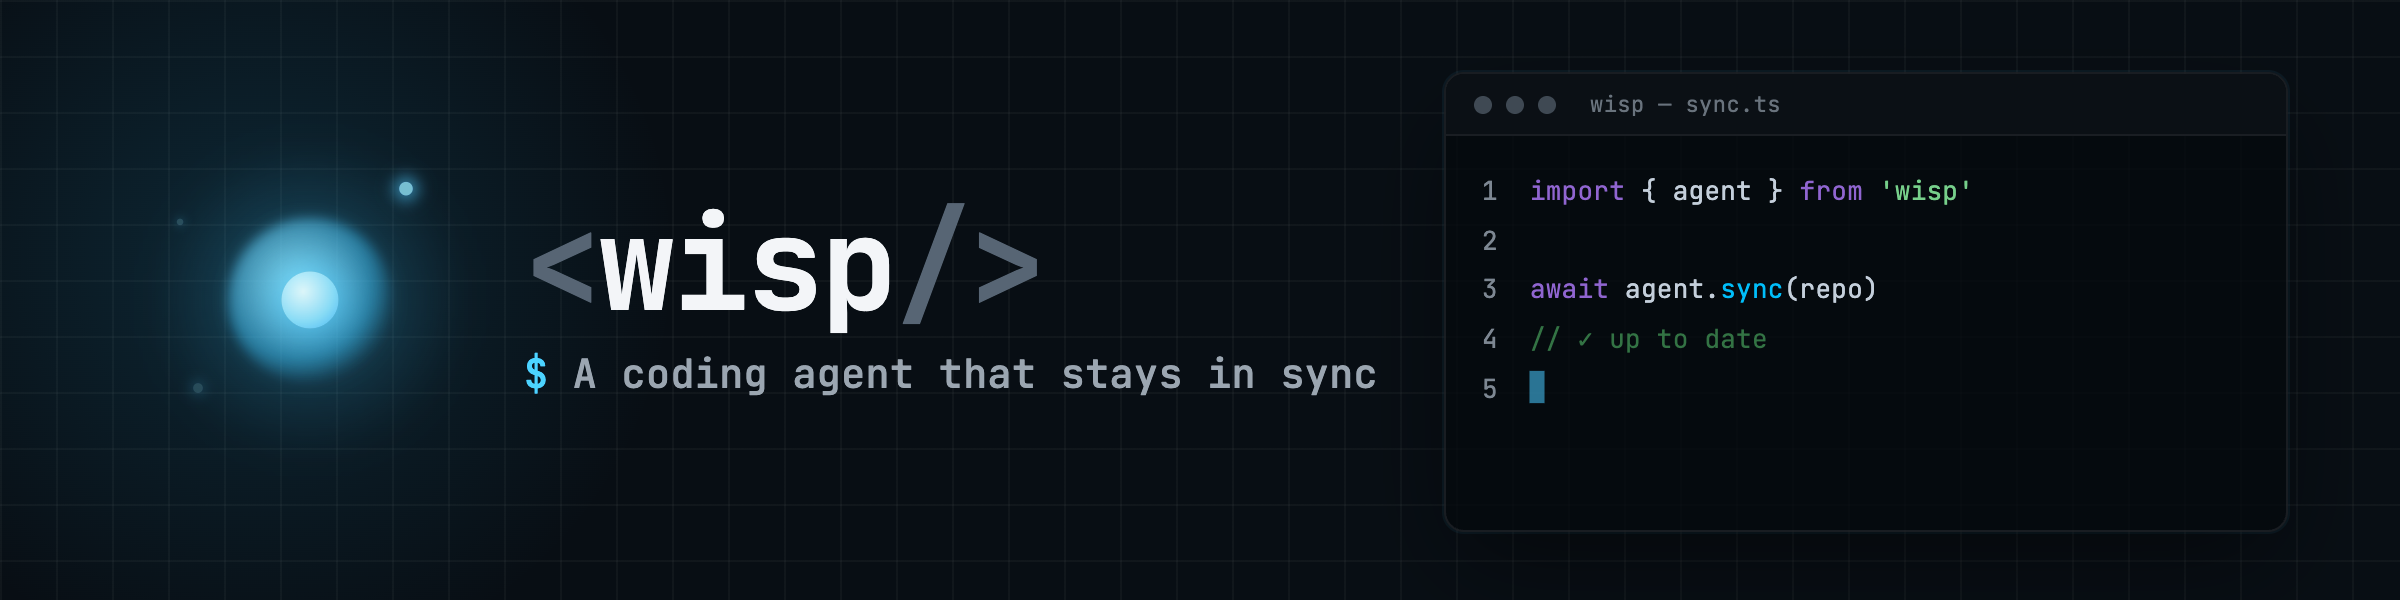
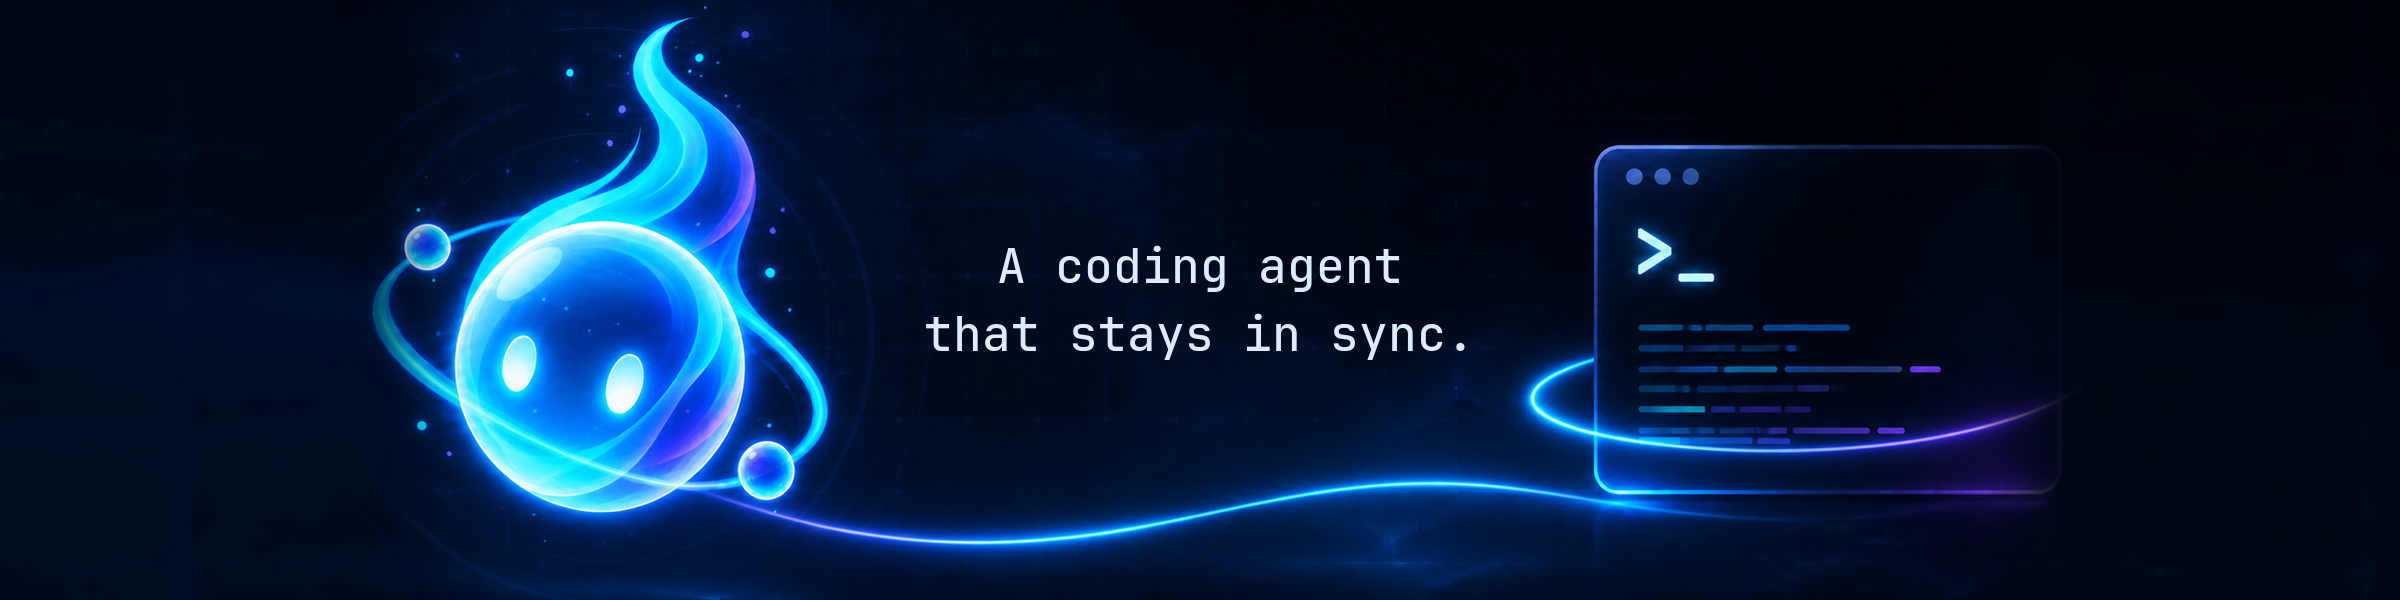
chore: refresh Wisp brand assets (#320)

diff --git a/README.md b/README.md
@@ -1,5 +1,5 @@
 <p align="center">
-  <img src="https://raw.githubusercontent.com/whanyu1212/Wisp/main/assets/wisp-banner.png" alt="Wisp — A Python coding agent that stays in sync." width="100%">
+  <img src="https://raw.githubusercontent.com/whanyu1212/Wisp/main/assets/wisp-banner.png" alt="Wisp — A coding agent that stays in sync, illustrated by a spectral orb linked to a terminal." width="100%">
 </p>
 
 # Wisp
